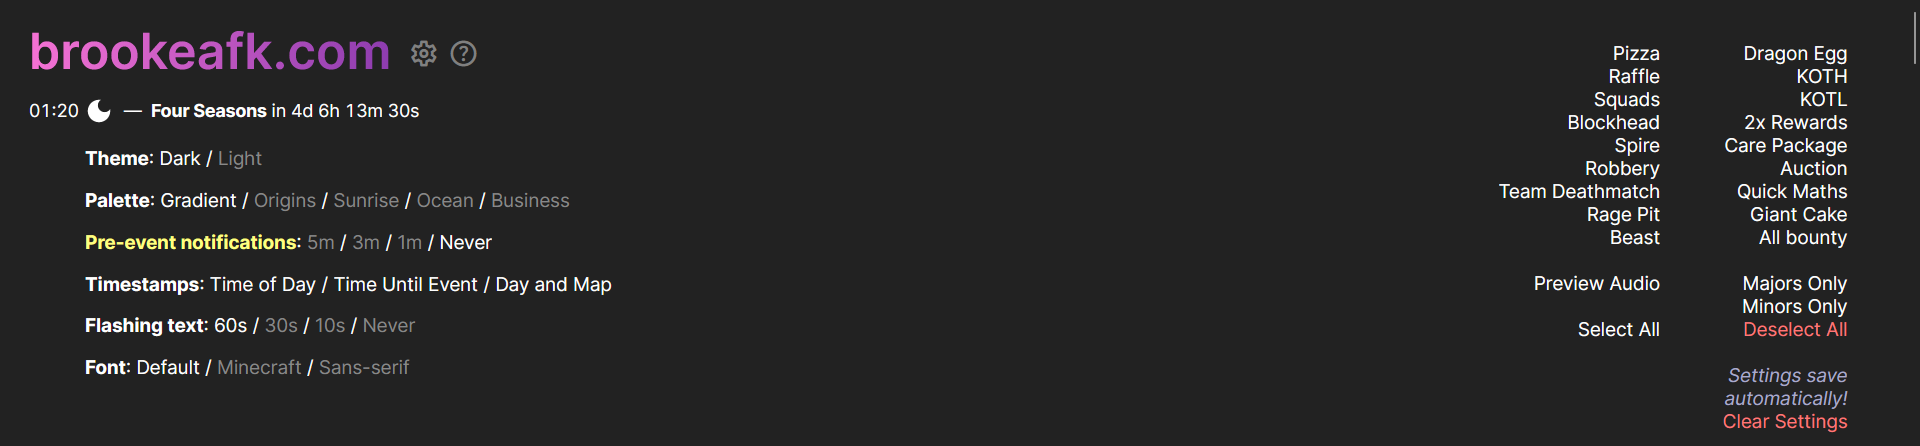
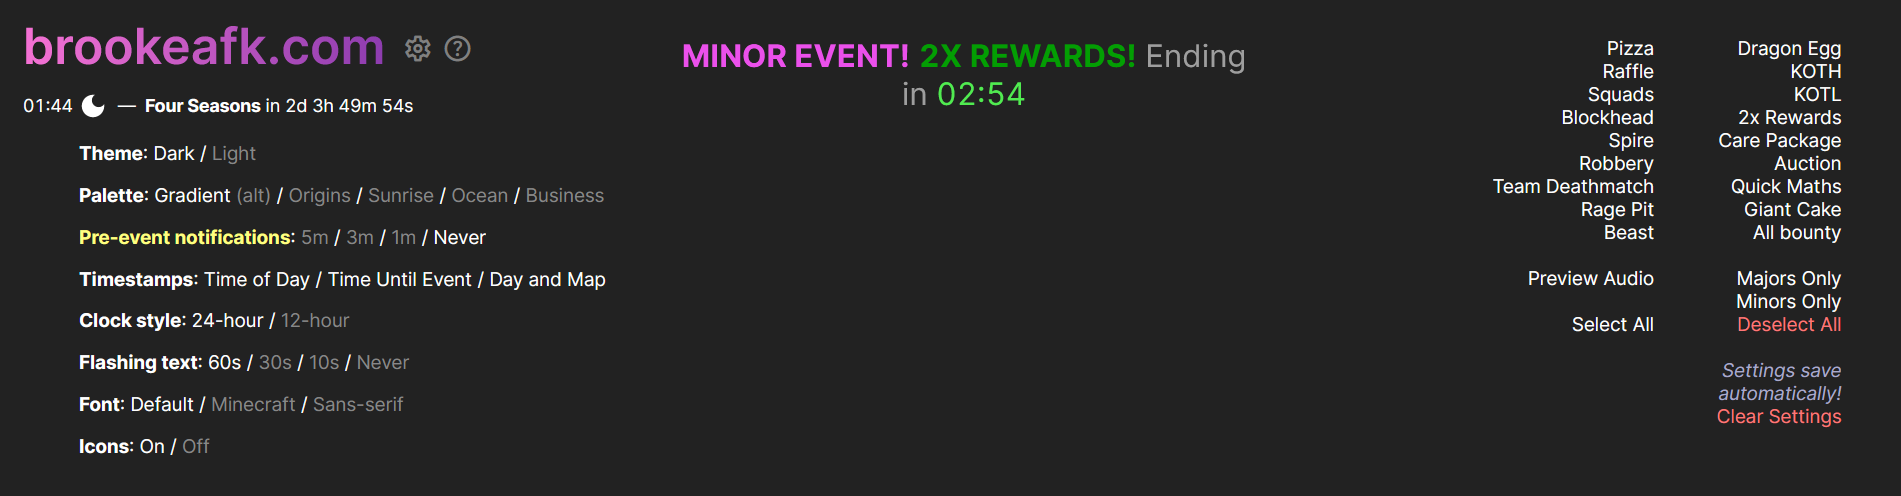
added alternate gradient added 12-hour time optimized like 2 things

diff --git a/beta.html b/beta.html
@@ -10,7 +10,6 @@
     <meta id="viewport" name="viewport" content="initial-scale=1, user-scalable=0, minimum-scale=1">
     <meta http-equiv="Pragma" content="no-cache"/>
     <meta http-equiv="Expires" content="0"/>
-    <!-- why did i have jquery here? surely it wasn't for anything important. -->
     <link rel="apple-touch-icon" sizes="180x180" href="favicon_icons/apple-touch-icon.png">
     <link rel="icon" type="image/png" sizes="32x32" href="favicon_icons/favicon-32x32.png">
     <link rel="icon" type="image/png" sizes="16x16" href="favicon_icons/favicon-16x16.png">
@@ -40,14 +39,14 @@
     
   <div id="settings-section"><br>
   <p class="option"><span><b>Theme</b>: </span><span id="settings-theme-dark" onclick='ChangeTheme("dark")'>Dark</span><span> / </span><span id="settings-theme-light" onclick='ChangeTheme("light")'>Light</span></p> 
-  <p class="option"><span><b>Palette</b>: </span><span id="settings-palette-gradient" onclick="ChangePalette('gradient')" class="hand_cursor">Gradient</span> / <span id="settings-palette-0" onclick='ChangePalette(0)' class="hand_cursor">Theme 0</span> / <span id="settings-palette-1" onclick='ChangePalette(1)' class="hand_cursor">Theme 1</span> / <span id="settings-palette-2" onclick='ChangePalette(2)' class="hand_cursor">Theme 2</span> / <span id="settings-palette-3" onclick='ChangePalette(3)' class="hand_cursor">Theme 3</span></p>
+  <p class="option"><span><b>Palette</b>: </span><span id="settings-palette-gradients0" onclick="ChangePalette('gradients0')" class="hand_cursor">Gradient</span> <span id="settings-palette-gradients1" onclick="ChangePalette('gradients1')" class="hand_cursor">(alt)</span> / <span id="settings-palette-0" onclick='ChangePalette(0)' class="hand_cursor">Theme 0</span> / <span id="settings-palette-1" onclick='ChangePalette(1)' class="hand_cursor">Theme 1</span> / <span id="settings-palette-2" onclick='ChangePalette(2)' class="hand_cursor">Theme 2</span> / <span id="settings-palette-3" onclick='ChangePalette(3)' class="hand_cursor">Theme 3</span></p>
   <p class="option"><span id="tut-notif" style="color: #ffff80"><b>Pre-event notifications</b></span><span>: </span><span id="settings-audio"><span id="audio-300" onclick='SetAudio(300);' class="hand_cursor">5m</span><span> / </span><span id="audio-180" onclick='SetAudio(180);' class="hand_cursor">3m</span><span> / </span><span id="audio-60" onclick='SetAudio(60);' class="hand_cursor">1m</span><span> / </span><span id="audio-0" onclick='SetAudio(-10);' class="hand_cursor">Never</span></span></p>
   <p id="anotif" class="option"><span>&bullet; <b>Audio notifications</b>: </span><span id="desktop-notifs"><span id="audio-on" onclick='ANotif(1);' class="hand_cursor">On</span><span> / </span><span id="audio-off" onclick='ANotif(0);' class="hand_cursor">Off</span></span></p>
   <p id="dnotif" class="option"><span>&bullet; <b>Desktop notifications</b>: </span><span id="desktop-notifs"><span id="desktop-on" onclick='DNotif(1);' class="hand_cursor">On</span><span> / </span><span id="desktop-off" onclick='DNotif(0);' class="hand_cursor">Off</span></span></p>
   <p class="option"><span id="alert-nobells" style="color: #ff7777; display: none">You're not being reminded for any events!<br>Click the bells in the top-right corner to receive notifications.</span></p>
   <p class="option"><span id="alert-notypes" style="color: #ff7777; display: none">Make sure to turn either "Audio notifications"<br>or "Desktop notifications" on to receive alerts.</span></p>
-  <p class="option"><span><b>Timestamps</b>: </span><span id="settings-ts-tod" onclick='ToggleTimestamps("tod");' class="hand_cursor">Time of Day</span><span> / </span><span id="settings-ts-tue" onclick='ToggleTimestamps("tue");' class="hand_cursor">Time Until Event</span> / <span id="settings-ts-dnc" onclick='ToggleTimestamps("dnc");' class="hand_cursor">Day and Map</span></p>
-  <p class="option"><span><b>Clock style</b>: </span><span id="settings-clock-24" onclick='changeClock("24");' class="hand_cursor">24-hour</span><span> / </span><span id="settings-clock-12" onclick='changeClock("12");' class="hand_cursor">12-hour</span></p>
+  <p class="option"><span><b>Timestamps</b>: </span><span id="settings-ts-tod" onclick='setTimestamps("tod");' class="hand_cursor">Time of Day</span><span> / </span><span id="settings-ts-tue" onclick='setTimestamps("tue");' class="hand_cursor">Time Until Event</span> / <span id="settings-ts-dnc" onclick='setTimestamps("dnc");' class="hand_cursor">Day and Map</span></p>
+  <p class="option" id="setting-clock-style"><span><b>Clock style</b>: </span><span id="settings-clock-24" onclick='changeClock("24");' class="hand_cursor">24-hour</span><span> / </span><span id="settings-clock-12" onclick='changeClock("12");' class="hand_cursor">12-hour</span></p>
   <p class="option"><span id="settings-flashing"><b>Flashing text</b>: </span><span id="settings-flash"><span id="settings-flash-60" onclick='EventFlash(60);' class="hand_cursor">60s</span><span> / </span><span id="settings-flash-30" onclick='EventFlash(30);' class="hand_cursor">30s</span><span> / </span><span id="settings-flash-10" onclick='EventFlash(10);' class="hand_cursor">10s</span><span> / </span><span id="settings-flash-0" onclick='EventFlash(-10);' class="hand_cursor">Never</span></span></p>
   <p class="option"><span><b>Font</b>: </span><span id="settings-font-default" class="hand_cursor" onclick='changeFont("Inter")'>Default</span><span> / <span id="settings-font-minecraft" class="hand_cursor" onclick='changeFont("minecraft")'>Minecraft</span><span> / </span><span id="settings-font-sans-serif" class="hand_cursor" onclick='changeFont("sans-serif")'>Sans-serif</span></p> 
   <p class="option"><span><b>Icons</b>: </span><span id="settings-icons-on" class="hand_cursor" onclick='changeIcons(1)'>On</span><span> / <span id="settings-icons-off" class="hand_cursor" onclick='changeIcons(0)'>Off</span></p> 
@@ -106,7 +105,7 @@
   var NotifTimer = -10;
   var DoesStuffExist = false;
   var HasStuffLoaded = false;
-  var Palette = 'gradient';
+  var Palette = 'gradients0';
   var SettingsSelectedEvents = 262143;
   var SettingsNotifyEvents = 0;
   var SettingsDesktopNotifs = 0;
@@ -500,18 +499,20 @@
   
   
   
-  function ToggleTimestamps(timestamps) {
+  function setTimestamps(timestamps, toggler = true) {
     if (timestamps == "tod") {
-      if(window.showEventToD == true) {
+      if((window.showEventToD == false && !toggler) || (window.showEventToD == true && toggler)) {
         document.getElementById('settings-ts-tod').style.color = "#888888";
+        document.getElementById('setting-clock-style').style.display = "none";
         window.showEventToD = false;
       } else {
         document.getElementById('settings-ts-tod').style.color = NormalText;
+        document.getElementById('setting-clock-style').style.display = "block";
         window.showEventToD = true;
       }
     }
     if (timestamps == "tue") {
-      if(window.showEventTuE == true) {
+      if((window.showEventTuE == false && !toggler) || (window.showEventTuE == true && toggler)) {
         document.getElementById('settings-ts-tue').style.color = "#888888";
         window.showEventTuE = false;
       } else {
@@ -520,7 +521,7 @@
       }
     }
     if (timestamps == "dnc") {
-      if(window.showEventDNC == true) {
+      if((window.showEventDNC == false && !toggler) || (window.showEventDNC == true && toggler)) {
         document.getElementById('settings-ts-dnc').style.color = "#888888";
         window.showEventDNC = false;
         document.getElementById("day-night-border").style.display = "none";
@@ -537,12 +538,13 @@
   
   function ChangePalette(changeThePalette) {
     Palette = changeThePalette;
-    document.getElementById('settings-palette-gradient').style.color = "#888888";
+    document.getElementById('settings-palette-gradients0').style.color = "#888888";
+    document.getElementById('settings-palette-gradients1').style.color = "#888888";
     document.getElementById('settings-palette-0').style.color = "#888888";
     document.getElementById('settings-palette-1').style.color = "#888888";
     document.getElementById('settings-palette-2').style.color = "#888888";
     document.getElementById('settings-palette-3').style.color = "#888888";
-    if(Palette > -100 || Palette == 'gradient') {
+    if(Palette > -100 || Palette == 'gradients0' || Palette == 'gradients1') {
       document.getElementById('settings-palette-' + Palette).style.color = NormalText;
     }
     CuteColors(window.data);
@@ -638,14 +640,19 @@
     }
   }
 
-  // ["Quick Maths","Dragon Egg","2x Rewards","Care Package","KOTL","KOTH","Auction","Giant Cake","All bounty","Squads","Beast","Pizza","Rage Pit","Spire","Robbery","Blockhead","Raffle","Team Deathmatch"];
+  // ["Quick Maths","Dragon Egg","2x Rewards","Care Package",
+  // "KOTL","KOTH","Auction","Giant Cake","All bounty",
+  // "Squads","Beast","Pizza","Rage Pit","Spire",
+  // "Robbery","Blockhead","Raffle","Team Deathmatch"];
 
-  var gradientsdark = [["cb7cd1","575c9a"],["c66fb6","99647d"],["479452","b9d29e"],["c49b50","b8c775"],["6ec97c","cfd42b"],["83d2cd","3574a8"],["d5aa66","d4e7a2"],["cd86cf","e3bfe6"],["d4bc55","b56767"],["123456","47c9be"],["146517","b1fb70"],["5e042e","ac3ca7"],["4d1210","d37515"],["510940","1f8fa6"],["bba321","e6e633"],["0b1f47","736cd0"],["a6a239","dae398"],["380960","d06c98"]]; // these ones are awesome but adj won;t let me add them
+  
+  var gradients0 = [["db07eb","2a33a1"],["d11db0","990e4f"],["0d9121","b9d29e"],["d79e35","aec839"],["6ec97c","dfe424"],["60d0c8","3574a8"],["d4983a","d4e7a2"],["cb49cd","e3bfe6"],["d28b1a","b03737"],["4f73cf","72c79a"],["3bbd40","b1fb70"],["cc4c4c","ac3ca7"],["991e1e","c26e26"],["9621b8","1f8fa6"],["d5ac1d","dadd38"],["1b57c8","97cae9"],["d7ad17","dae398"],["8617d7","bb167e"]];
 
-  //var gradientsdark = [["db07eb","2a33a1"],["d11db0","990e4f"],["0d9121","b9d29e"],["d79e35","aec839"],["6ec97c","dfe424"],["60d0c8","3574a8"],["d4983a","d4e7a2"],["cb49cd","e3bfe6"],["d28b1a","b03737"],["4f73cf","72c79a"],["3bbd40","b1fb70"],["cc4c4c","ac3ca7"],["991e1e","c26e26"],["9621b8","1f8fa6"],["d5ac1d","dadd38"],["1b57c8","97cae9"],["d7ad17","dae398"],["8617d7","bb167e"]];
+  var gradients1 = [["cb7cd1","575c9a"],["c66fb6","99647d"],["479452","b9d29e"],["c49b50","b8c775"],["6ec97c","cfd42b"],["83d2cd","3574a8"],["d5aa66","d4e7a2"],["cd86cf","e3bfe6"],["d4bc55","b56767"],["123456","47c9be"],["146517","b1fb70"],["5e042e","ac3ca7"],["4d1210","d37515"],["510940","1f8fa6"],["bba321","e6e633"],["0b1f47","736cd0"],["a6a239","dae398"],["380960","d06c98"]]; // these ones are awesome but adj won;t let me add them
 
+  //gradients0 = [["b961bb","d5c656"],["8e4f75","5d4c98"],["79d976","239eab"],["ce6a6a","aaaf15"],["4c8374","aaaf15"],["8fb5d5","21966b"],["d2d099","d28419"],["d558b8","f3eff2"],["a25656","4144ab"],["4f73cf","72c79a"],["3bbd40","b1fb70"],["cc4c4c","ac3ca7"],["991e1e","c26e26"],["9621b8","1f8fa6"],["d5ac1d","dadd38"],["1b57c8","97cae9"],["d7ad17","dae398"],["8617d7","bb167e"]];
 
-  //var gradientslight = [["4eb743","12743f"],["d11db0","990e4f"],["0d9121","b9d29e"],["d79e35","aec839"],["6ec97c","dfe424"],["60d0c8","3574a8"],["d4983a","d4e7a2"],["cb49cd","e3bfe6"],["d2b01a","b03737"],["123456","72c79a"],["3bbd40","b1fb70"],["cc4c4c","ac3ca7"],["991e1e","c26e26"],["9621b8","1f8fa6"],["d5ac1d","dadd38"],["1b57c8","97cae9"],["d7ad17","dae398"],["8617d7","bb167e"]];
+  //var gradients2 = [["4eb743","12743f"],["d11db0","990e4f"],["0d9121","b9d29e"],["d79e35","aec839"],["6ec97c","dfe424"],["60d0c8","3574a8"],["d4983a","d4e7a2"],["cb49cd","e3bfe6"],["d2b01a","b03737"],["123456","72c79a"],["3bbd40","b1fb70"],["cc4c4c","ac3ca7"],["991e1e","c26e26"],["9621b8","1f8fa6"],["d5ac1d","dadd38"],["1b57c8","97cae9"],["d7ad17","dae398"],["8617d7","bb167e"]];
 
   var lightColors0 = ["#D9D2E9","#E9D2E1","#D2E9DD","#E9E2D2","#D2E9D2","#D2E9E8","#E9DDD2","#E9D2D2","#E9E3D2","#8EBAEC","#8EEC94","#ECB38E","#EC8E8E","#EC8EEC","#ECE98E","#9191EC","#ECBD8E","#BA8EEC"]
   var darkColors0 = ["#45234f","#4f234d","#234f2c","#4f3023","#394f23","#234f48","#6e5032","#35234f","#4f4d23","#206dc5","#20c541","#c59f20","#c52320","#c520c3","#c5c320","#2323c5","#c0c020","#7320c5"]
@@ -728,7 +735,7 @@
       if(SettingsDesktopNotifs == 1) {
       if(Date.now() + offset > time1 + 10000) { //if it's been more than 10 seconds since the last notification
       var notification = new Notification("", {body: "Hey – " + window.data[i]['event'] + " is starting in " + NotifTimer/60 + " " + (NotifTimer == 60?"minute":"minutes") +"!", icon: "3457688aa57c4d71ab9d22b04f9160db.png"});
-      time1 = Date.now() + offset
+      time1 = Date.now() + offset;
       }
       }
    }
@@ -839,7 +846,7 @@
         localStorage.setItem('theme', theme);
         localStorage.setItem('visible', '262144');
         localStorage.setItem('notifs', '0');
-        localStorage.setItem('palette', 'gradient');
+        localStorage.setItem('palette', 'gradients0');
         localStorage.setItem('timestamps', '111');
         localStorage.setItem('flashing', '0');
         localStorage.setItem('reminder', '0');
@@ -850,7 +857,7 @@
         localStorage.setItem('clock', '24');
         console.log("No settings :fear:")
         changeFont('Inter');
-        ChangePalette('gradient');
+        ChangePalette('gradients0');
         EventFlash(60); // setting everything up!
         SetAudio(-10);
         DNotif(0);
@@ -890,21 +897,9 @@
       changeIcons(iconsVisible);
       changeClock(clockStyle);
   
-      if(window.showEventToD == 0) {
-        document.getElementById('settings-ts-tod').style.color = "#888888";
-      } else {
-        document.getElementById('settings-ts-tod').style.color = NormalText;
-      }
-      if(window.showEventTuE == 0) {
-        document.getElementById('settings-ts-tue').style.color = "#888888";
-      } else {
-        document.getElementById('settings-ts-tue').style.color = NormalText;
-      }
-      if(window.showEventDNC == 0) {
-        document.getElementById('settings-ts-dnc').style.color = "#888888";
-      } else {
-        document.getElementById('settings-ts-dnc').style.color = NormalText;
-      }
+      setTimestamps("tod", false);
+      setTimestamps("tue", false);
+      setTimestamps("dnc", false);
 
       VisibleEvents = [];
       AudioEvents = [];
@@ -924,20 +919,21 @@
       console.log(VisibleEvents);
   
       for(var i = 0; i < VisibleEvents.length; i++) {
-      for(var j = window.HiddenEventCount; j < EventsToLoad; j++) {
-      if (window.data[j]["event"].includes(VisibleEvents[i]) && !ok_ids.includes(j)) {
-        document.getElementById('event_' + String(j)).style.display = "block";
-        ok_ids.push(j);
-        console.log(ok_ids)
-          console.log("saved " + window.data[j]["event"])
-      } 
-      }}
-      for(var j = window.HiddenEventCount; j < EventsToLoad; j++) {
-      if (!ok_ids.includes(j)) {
-      document.getElementById('event_' + String(j)).style.display = "none";
-      console.log("hid " + window.data[j]["event"])
+        for(var j = window.HiddenEventCount; j < EventsToLoad; j++) {
+        if (window.data[j]["event"].includes(VisibleEvents[i]) && !ok_ids.includes(j)) {
+          document.getElementById('event_' + String(j)).style.display = "block";
+          ok_ids.push(j);
+          console.log(ok_ids)
+            console.log("saved " + window.data[j]["event"])
+          }  
+        }
       }
-  
+
+      for(var j = window.HiddenEventCount; j < EventsToLoad; j++) {
+        if (!ok_ids.includes(j)) {
+          document.getElementById('event_' + String(j)).style.display = "none";
+          console.log("hid " + window.data[j]["event"])
+        }
       }
   
       var leadingZeroes = (num, places) => String(num).padStart(places, '0')
@@ -952,7 +948,7 @@
       console.log(AudioEvents);
       if(window.AudioEvents.length == 0 && DoesStuffExist == true) {
       console.log(window.AudioEvents + " audioevents")
-     document.getElementById('alert-nobells').style.display = "block";
+      document.getElementById('alert-nobells').style.display = "block";
       }
 
       ChangeTheme(theme);
@@ -1142,7 +1138,7 @@
   
   function CuteColors(conversion) { //adds cute colors
 
-  if(window.Palette.length > 1 && window.Palette != "gradient") {
+  if(window.Palette.length > 1 && !(window.Palette.startsWith('gradient'))) {
     document.getElementById('brookeafk-com').innerText = window.Palette + ".com"
     window.theme = "dark";
   }
@@ -1155,10 +1151,10 @@
   }
   if(DoesStuffExist == true) {
     console.log(Palette)
-    if(Palette == "gradient") { // if awesome gradients are enabled
+    if(Palette.toString().startsWith("gradient")) { // if awesome gradients are enabled
       for(var i = window.HiddenEventCount; i < EventsToLoad; i++) {
         document.getElementById('event_' + String(i)).style.background = 
-        `linear-gradient(90deg, #`+ gradientsdark[events.indexOf(conversion[i]['event'])][0] + ` 0%, #` + gradientsdark[events.indexOf(conversion[i]['event'])][1] + ` 100%)`;
+        `linear-gradient(90deg, #`+ eval("gradients" + Palette.substring(9) + `[events.indexOf(conversion[i]['event'])][0]`) + ` 0%, #` + gradients0[events.indexOf(conversion[i]['event'])][1] + ` 100%)`;
       }
     } else { // if the user is totally uncool and refuses to use my awesome gradients
       console.log("uncool user :/")

diff --git a/help.html b/help.html
@@ -45,14 +45,16 @@
 <p>The items are the following:</p>
 <ul>
     <li><b>Theme</b>: Changes whether the background is black or white. It also changes the palettes!</li>
-    <li><b>Palette</b>: Changes the colors of the events. There's nine of them in total; try clicking each one to see the colors.</li>
+    <li><b>Palette</b>: Changes the colors of the events. There's ten of them in total; try clicking each one to see the colors.</li>
     <li><b><span class="me">Pre-event notifications</span></b>: These notify the user when certain events are about to start.<br><b>NOTE:</b> Many Chrome users have told me that they don't receive notifications when brookeafk.com isn't focused. I have searched for a solution to this, but have came up with nothing. If you're having this problem, make sure <a href="https://support.google.com/chrome/answer/3220216?hl=en" target="_blank">Chrome can send notifications</a> or switch to <a href="https://www.mozilla.org/en-CA/firefox/new/" target="_blank">another non-Chromium browser</a>. Alternatively, just create a new window in Chrome (<kbd>Control</kbd> + <kbd>N</kbd>) and use that for your brookeafk.com needs.<br>Upon clicking <code>5m</code>, <code>3m</code>, or <code>1m</code>, more settings options will appear.</li>
 <ul><li><b>Audio notifications</b>: Whether you'll be notified through a chime on the site.</li>
     <li><b>Desktop notifications</b>: Whether you'll be notified through notifications on your desktop.</li>
 <li>Additionally, bell icons (<span style="font-family: Material">notifications</span>) will appear to the right of the event names on the right side of the page. Clicking one of these will enable notifications for that event.</li></ul>
     <li><b>Timestamps</b>: Toggles certain countdown timers and clocks. <b>Time of Day</b> is the timestamp that displays when an event will happen (e.g. 11:56). <b>Time Until Event</b> is the countdown timer to each event (e.g. 23m 51s). <b>Day and Map</b> controls the bar that displays the day-night cycle and the map change timer.</li>
+    <li><b>Clock style</b>: Whether the timestmaps appear as 24-hour (17:13) or 12-hour (5:13 pm).</li>
     <li><b>Flashing text</b>: Changes the amount of time until an event starts flashing and turning red.You can disable it by pressing <code>Never</code>.</li>
     <li><b>Font</b>: Controls the typeface of everything on the site. The default font is <b>Inter</b>, which is all of this text. <span style="font-family: minecraft"><b>Minecraft</b> is this typeface.</span> <span style="font-family: sans-serif"><b>Sans-serif</b> defaults to the default sans-serif font on your browser (this one). Learn how to change this here: <a href="https://support.mozilla.org/en-US/kb/change-fonts-and-colors-websites-use#w_changing-font" target="_blank">Firefox</a> &ndash; <a href="https://www.maketecheasier.com/change-default-font-chrome/" target="_blank">Chrome</a> &ndash; <a href="https://mcmw.abilitynet.org.uk/changing-fonts-microsoft-edge-windows-10" target="_blank">Edge</a></span>.</li>
+    <li><b>Icons</b>: Whether the images of events appear to the left of the events themselves.</li>
     <li>The names of events on the right (Pizza, Raffle, Squads, etc.) will toggle the visibility of the event. Selecting <b>Majors Only</b> will automatically only show major events. <b>Minors Only</b> will do the same for minor events. <b>Select All</b> and <b class="mc">Deselect All</b> will show and hide all events respectively. <b class="mc">Clear Settings</b> will completely erase all settings you've entered into the site. <b>Preview Audio</b> will play the aforementioned chime to make sure it works on your device.</li>
 </ul> 
 
